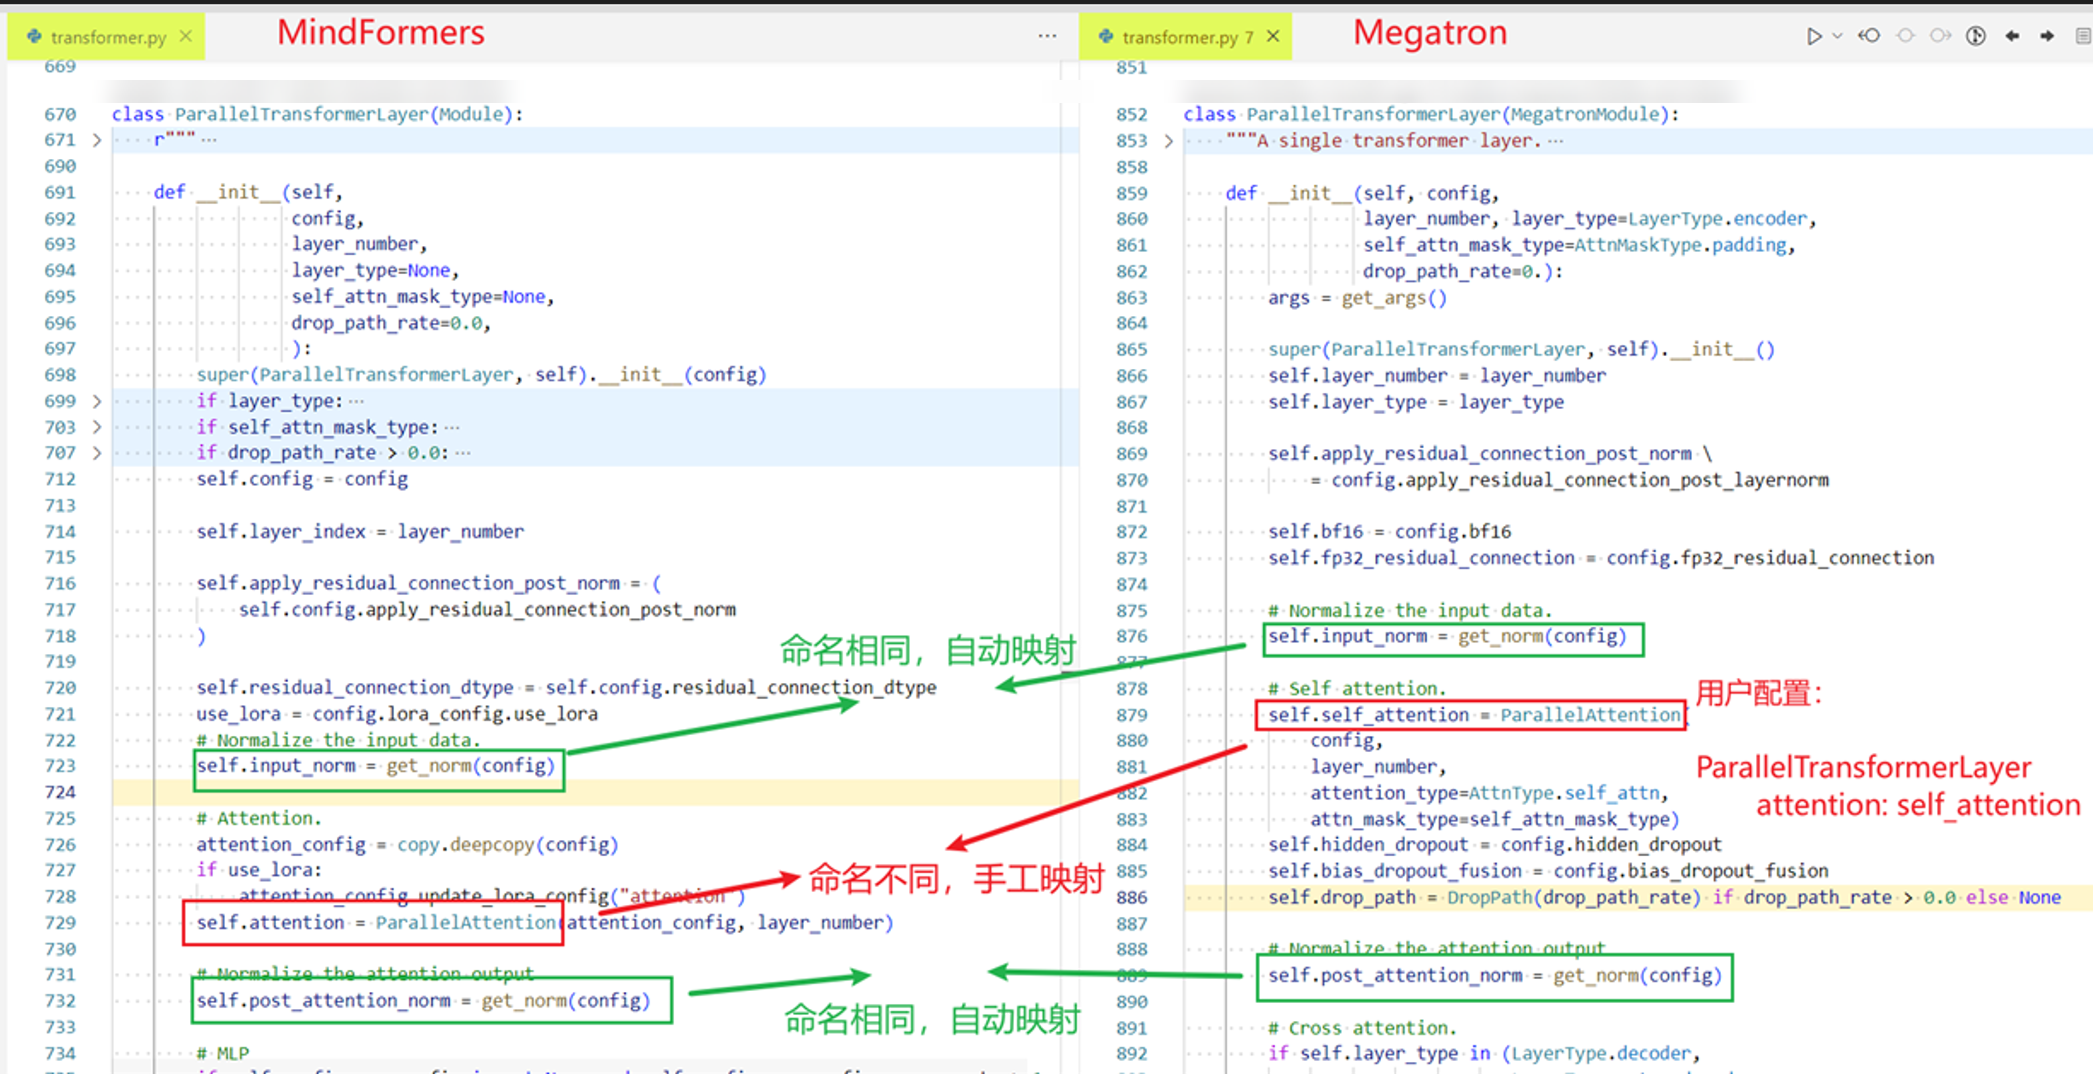
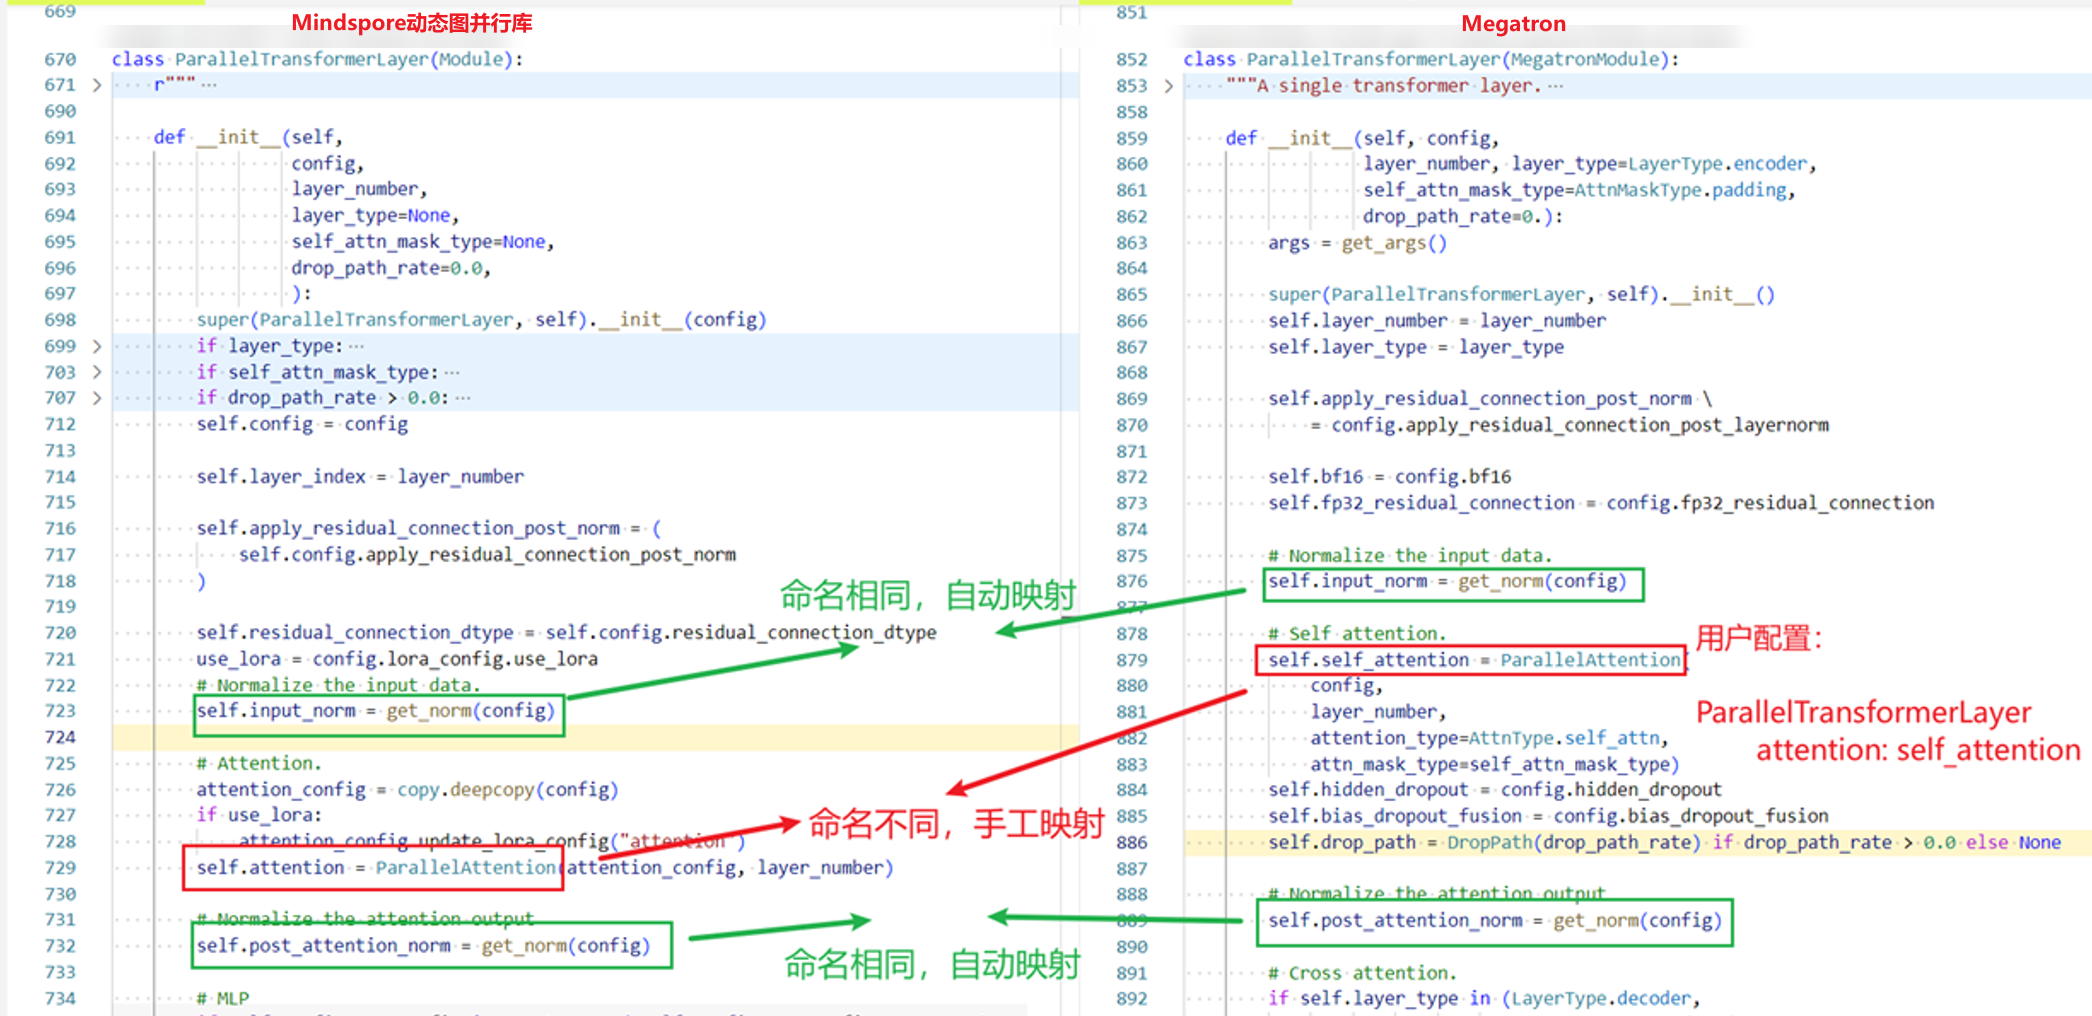
update pynative acc optimize doc

Changed region(s): [[0.0, 0.0, 1.0, 1.0], [0.0932, 0.9764, 0.1243, 1.0], [0.0, 0.9764, 0.0311, 1.0]]

diff --git a/docs/mindformers/docs/source_zh_cn/acc_optimize/pynative_acc_optimize.md b/docs/mindformers/docs/source_zh_cn/acc_optimize/pynative_acc_optimize.md
@@ -1,6 +1,18 @@
 # 动态图场景精度调优工具及案例
 
-[![查看源文件](https://mindspore-website.obs.cn-north-4.myhuaweicloud.com/website-images/master/resource/_static/logo_source.svg)](https://gitee.com/mindspore/docs/blob/master/docs/mindformers/docs/source_zh_cn/acc_optimize/pynative_acc_optimize.md)
+[![查看源文件](https://mindspore-website.obs.cn-north-4.myhuaweicloud.com/website-images/master/resource/_static/logo_source.svg)](https://gitee.com/mindspore/docs/blob/master/docs/mindformers/docs/source_zh_cn/acc_optimize/pynative_acc_optimize.md)  
+
+## 精度问题概述和场景
+
+详细介绍请参考[精度问题概述及场景](https://www.mindspore.cn/mindformers/docs/zh-CN/dev/acc_optimize/acc_optimize.html#精度定位通用流程)章节。
+
+## 精度问题定位CheckList
+
+在定位算子精度问题之前，首先要排除其他非算子因素的干扰。结合以往精度定位案例，总结了精度定位前的CheckList。为了在定位过程中少走弯路，用户可先根据CheckList进行快速的排查。详细CheckList请参考[精度问题定位CheckList](https://www.mindspore.cn/mindformers/docs/zh-CN/dev/acc_optimize/acc_optimize.html#精度问题定位checklist)章节。  
+
+## 精度定位通用流程
+
+精度定位通用流程请参考[精度定位通用流程](https://www.mindspore.cn/mindformers/docs/zh-CN/dev/acc_optimize/acc_optimize.html#精度定位通用流程)章节。
 
 ## msprobe工具介绍
 
@@ -13,7 +25,7 @@
 | 溢出检测    | msprobe 工具提供溢出检测功能，针对网络中的每一个API进行输出数据的溢出检测。 | [溢出检测使用说明](https://gitee.com/ascend/mstt/blob/master/debug/accuracy_tools/msprobe/docs/13.overflow_check_MindSpore.md) |
 | 梯度状态监测 | 采集梯度数据并进行梯度相似度比对，可以精准定位出现问题的 step。 | [梯度状态检测使用说明](https://gitee.com/ascend/mstt/blob/master/debug/accuracy_tools/msprobe/docs/17.grad_probe.md) |  
 
-具体定位流程请参考[msprobe工具精度比对定位案例](#msprobe工具精度比对定位案例)。  
+msprobe工具定位流程请参考[msprobe工具精度比对定位案例](#msprobe工具精度比对定位案例)。  
 
 ## msprobe工具精度比对定位案例
 
@@ -29,7 +41,7 @@
 
     配置config.json文件："level"为"L0", 代表为模块级别数据dump， "task"为"tensor"代表采集真实数据。"step" 指定为第1个step（从0开始计数），配置文件字段详见[配置文件介绍](https://gitee.com/ascend/mstt/blob/master/debug/accuracy_tools/msprobe/docs/02.config_introduction.md)。  
 
-    tensor模式（保存真实数据，需较大磁盘空间）如下：
+    tensor模式（保存统计信息和真实数据，需较大磁盘空间）如下：
 
     ```json
     {
@@ -46,7 +58,7 @@
     }
     ```
 
-    统计信息md5模式（需要比较二进制一致场景推荐使用）如下：
+    统计信息md5模式（保存统计信息以及md5值，需要比较二进制一致场景推荐使用）如下：
 
     ```json
     {
@@ -66,7 +78,7 @@
 
 2. **训练代码配置**  
 
-    找到网络模型的训练代码（需要找到训练迭代循环的train方法），在循环中插入工具的dump接口使能数据dump。
+    找到网络模型的训练代码（需要找到训练迭代循环的train方法），在训练循环中插入工具的dump接口使能数据dump。
 
     ```python
     # 首先导入msprobe工具的PrecisionDebugger类
@@ -98,7 +110,7 @@
 3. **启动训练**  
 
     训练结束后查看dump数据，dump数据保存在config.json中的dump\_path字段路径中，dump结果中包括以下文件：  
-    **dump.json**: 其中包括所有数据的基本信息以及统计信息（shape、 dtype、max、 min、mean、norm等信息，md5模式下会有md5值）。示例如下：
+    **dump.json**: 其中包括所有数据的基本信息以及统计信息。示例如下：
 
     ```json
     {
@@ -271,7 +283,7 @@
     ```
 
     **-i**传入参数为compare.json文件路径， **-o**传入参数为输出目录，输出目录下会生成精度对比的结果文件。  
-    **-lm**传入参数为层映射文件的路径（当前由于MindFormers中的代码结构无法与Megatron中的代码结构完全对应，因此需要将两侧的层通过映射表来进行映射，layer\_mapping.yaml中对两侧不同的模块进行了层名的映射，如下图所示，对于同一个模块的子模块，两侧存在命名不同的情况。以ParallelTransformerLayer为例，在MindFormers中其中一个子模块的层名为attention， 而在megatron中同一层则命名为self\_attention， 因此在比对时需要传入该映射文件）。
+    **-lm**传入参数为层映射文件的路径（当前由于MindSpore动态图并行库中的代码结构无法与Megatron中的代码结构完全对应，因此需要将两侧的层通过映射表来进行映射，layer\_mapping.yaml中对两侧不同的模块进行了层名的映射，如下图所示，对于同一个模块的子模块，两侧存在命名不同的情况。以ParallelTransformerLayer为例，在MindSpore动态图并行库中其中一个子模块的层名为attention， 而在megatron中同一层则命名为self\_attention， 因此在比对时需要传入该映射文件）。
 
     ![layer_mapping_1](./image/layer_mapping_1.png)
     ![layer_mapping_2](./image/layer_mapping_2.png)
@@ -312,7 +324,7 @@
 
     通过查看json文件我们发现在这两个模块间的反向计算中，MindSpore侧对于swiglu的实现是通过手动实现的3个API拼接而成，而PyTorch侧的swiglu则直接使用了融合API，直接调用了npu\_swiglu进行计算，因此怀疑两边可能会存在精度误差。随后将PyTorch侧的融合api改写成相同api拼接计算，发现精度问题消失。
 
-## msprobe工具精度预检使用流程  
+## msprobe工具精度预检案例
 
 ### 数据采集
 
@@ -343,7 +355,7 @@ msprobe -f mindspore run_ut -api_info ./tensor_l1_ms/step0/rank0/dump.json -o ./
 
 ### 精度预检结果分析  
 
-预检执行结果包括 `accuracy_checking_result_{timestamp}.csv` 和 `accuracy_checking_details_{timestamp}.csv` 两个文件。`accuracy_checking_result_{timestamp}.csv` 属于 API 级，标明每个 API 是否通过测试。建议用户先查看 `accuracy_checking_result_{timestamp}.csv` 文件，对于其中没有通过测试的或者特定感兴趣的 API，根据其 API Name 字段在 `accuracy_checking_details_{timestamp}.csv` 中查询其各个输出的达标情况以及比较指标。详细介绍请参见[预检结果说明](https://gitee.com/ascend/mstt/blob/master/debug/accuracy_tools/msprobe/docs/09.accuracy_checker_MindSpore.md#4-%E9%A2%84%E6%A3%80%E7%BB%93%E6%9E%9C)。
+预检执行结果包括 `accuracy_checking_result_{timestamp}.csv` 和 `accuracy_checking_details_{timestamp}.csv` 两个文件。`accuracy_checking_result_{timestamp}.csv` 属于 API 级，标明每个 API 是否通过测试。建议用户先查看 `accuracy_checking_result_{timestamp}.csv` 文件，对于其中没有通过测试的或者特定感兴趣的 API，根据其 API Name 字段在 `accuracy_checking_details_{timestamp}.csv` 中查询其各个输出的达标情况以及比较指标。通过分析具体指标来定位到底哪些 API 存在精度问题，详细介绍请参见[预检结果说明](https://gitee.com/ascend/mstt/blob/master/debug/accuracy_tools/msprobe/docs/09.accuracy_checker_MindSpore.md#4-%E9%A2%84%E6%A3%80%E7%BB%93%E6%9E%9C)。
 
 预检结果示例：  
 ![accuracy_checking_result](./image/accuracy_checking_result.png)
